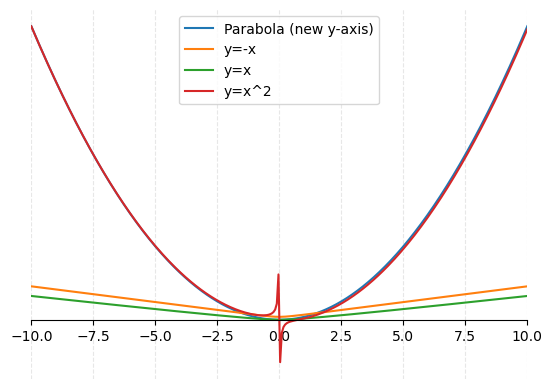
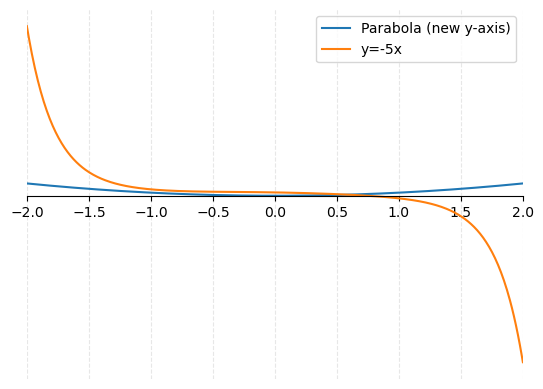
changes

diff --git a/math_plotter.py b/math_plotter.py
@@ -5,6 +5,7 @@ import matplotlib.pyplot as plt
 import numpy as np
 from scipy.integrate import quad
 from scipy.optimize import root_scalar
+import math
 
 class Axis:
     def __init__(self, x_min=-10, x_max=10):
@@ -55,11 +56,23 @@ class Axis:
     # -------------------------
     def x_from_signed_arc(self, s_target):
         """Find parabola x coordinate corresponding to signed arc-length s_target"""
+        # Maximum and minimum arc-length of parabola in x-range
+        s_min = self.arc_length(self.x_min)
+        s_max = self.arc_length(self.x_max)
+
+        if s_target < s_min or s_target > s_max:
+            # Out of parabola range → unplotable
+            return None
+
         func = lambda x: self.arc_length(x) - s_target
-        # bracket depends on sign
         bracket = (0, self.x_max) if s_target >= 0 else (self.x_min, 0)
-        sol = root_scalar(func, bracket=bracket, method='bisect')
-        return sol.root
+
+        try:
+            sol = root_scalar(func, bracket=bracket, method='bisect')
+            return sol.root
+        except ValueError:
+            # Safety net: function did not change sign
+            return None
 
     # -------------------------
     # Transform function
@@ -67,15 +80,16 @@ class Axis:
     def transform_point(self, x, y):
         """
         x : vertical line position
-        y : signed arc-length output (can be negative)
+        y : function output (interpreted as signed arc-length)
         """
-        # Find parabola point exactly at signed arc-length y
         x0 = self.x_from_signed_arc(y)
-        y0 = x0**2
+        if x0 is None:
+            # mark as unplotable
+            return None
 
+        y0 = x0 ** 2
         slope = 2 * x0
         if abs(slope) < 1e-12:
-            # vertex case
             return (x, y0)
 
         m_perp = -1.0 / slope
@@ -85,18 +99,29 @@ class Axis:
     # -------------------------
     # Plot arbitrary function
     # -------------------------
-    def plot_function(self, func, label):
-        xs = np.linspace(self.x_min, self.x_max, 300)
+    def plot_function(self, func, label, n_points=500):
+        # evenly spaced points in the x-range
+        xs = np.linspace(self.x_min, self.x_max, n_points)
+
         new_x = []
         new_y = []
+        skipped_x = []
 
         for x in xs:
-            y_arc = func(x)  # function output is the signed arc-length
+            y_arc = func(x)
             pt = self.transform_point(x, y_arc)
-            new_x.append(pt[0])
-            new_y.append(pt[1])
+            if pt is not None:
+                new_x.append(pt[0])
+                new_y.append(pt[1])
+            else:
+                skipped_x.append(x)
 
         self.ax.plot(new_x, new_y, label=label)
+
+        if skipped_x:
+            # optional: mark skipped points
+            self.ax.plot(skipped_x, [0] * len(skipped_x), marker='*', linestyle='',
+                         color='orange', label=f"Out of range points ({label})")
 
     # -------------------------
     # Master render
@@ -106,9 +131,9 @@ class Axis:
         self.plot_parabola()
 
         # Examples: output is signed arc-length
-        self.plot_function(lambda x: -x, "y=-x")
-        self.plot_function(lambda x: x, "y=x")
-        self.plot_function(lambda x: x**2, "y=x^2")
+        self.plot_function(lambda x: math.exp(-x**2), "y=-5x")
+        # self.plot_function(lambda x: math.exp2(x), "y=x")
+        # self.plot_function(lambda x: x**2, "y=x^2")
 
         self.ax.legend()
         plt.savefig(filename, bbox_inches="tight")
@@ -116,5 +141,5 @@ class Axis:
 
 
 if __name__ == "__main__":
-    a = Axis(-10, 10)
+    a = Axis(-2, 2)
     a.render()
